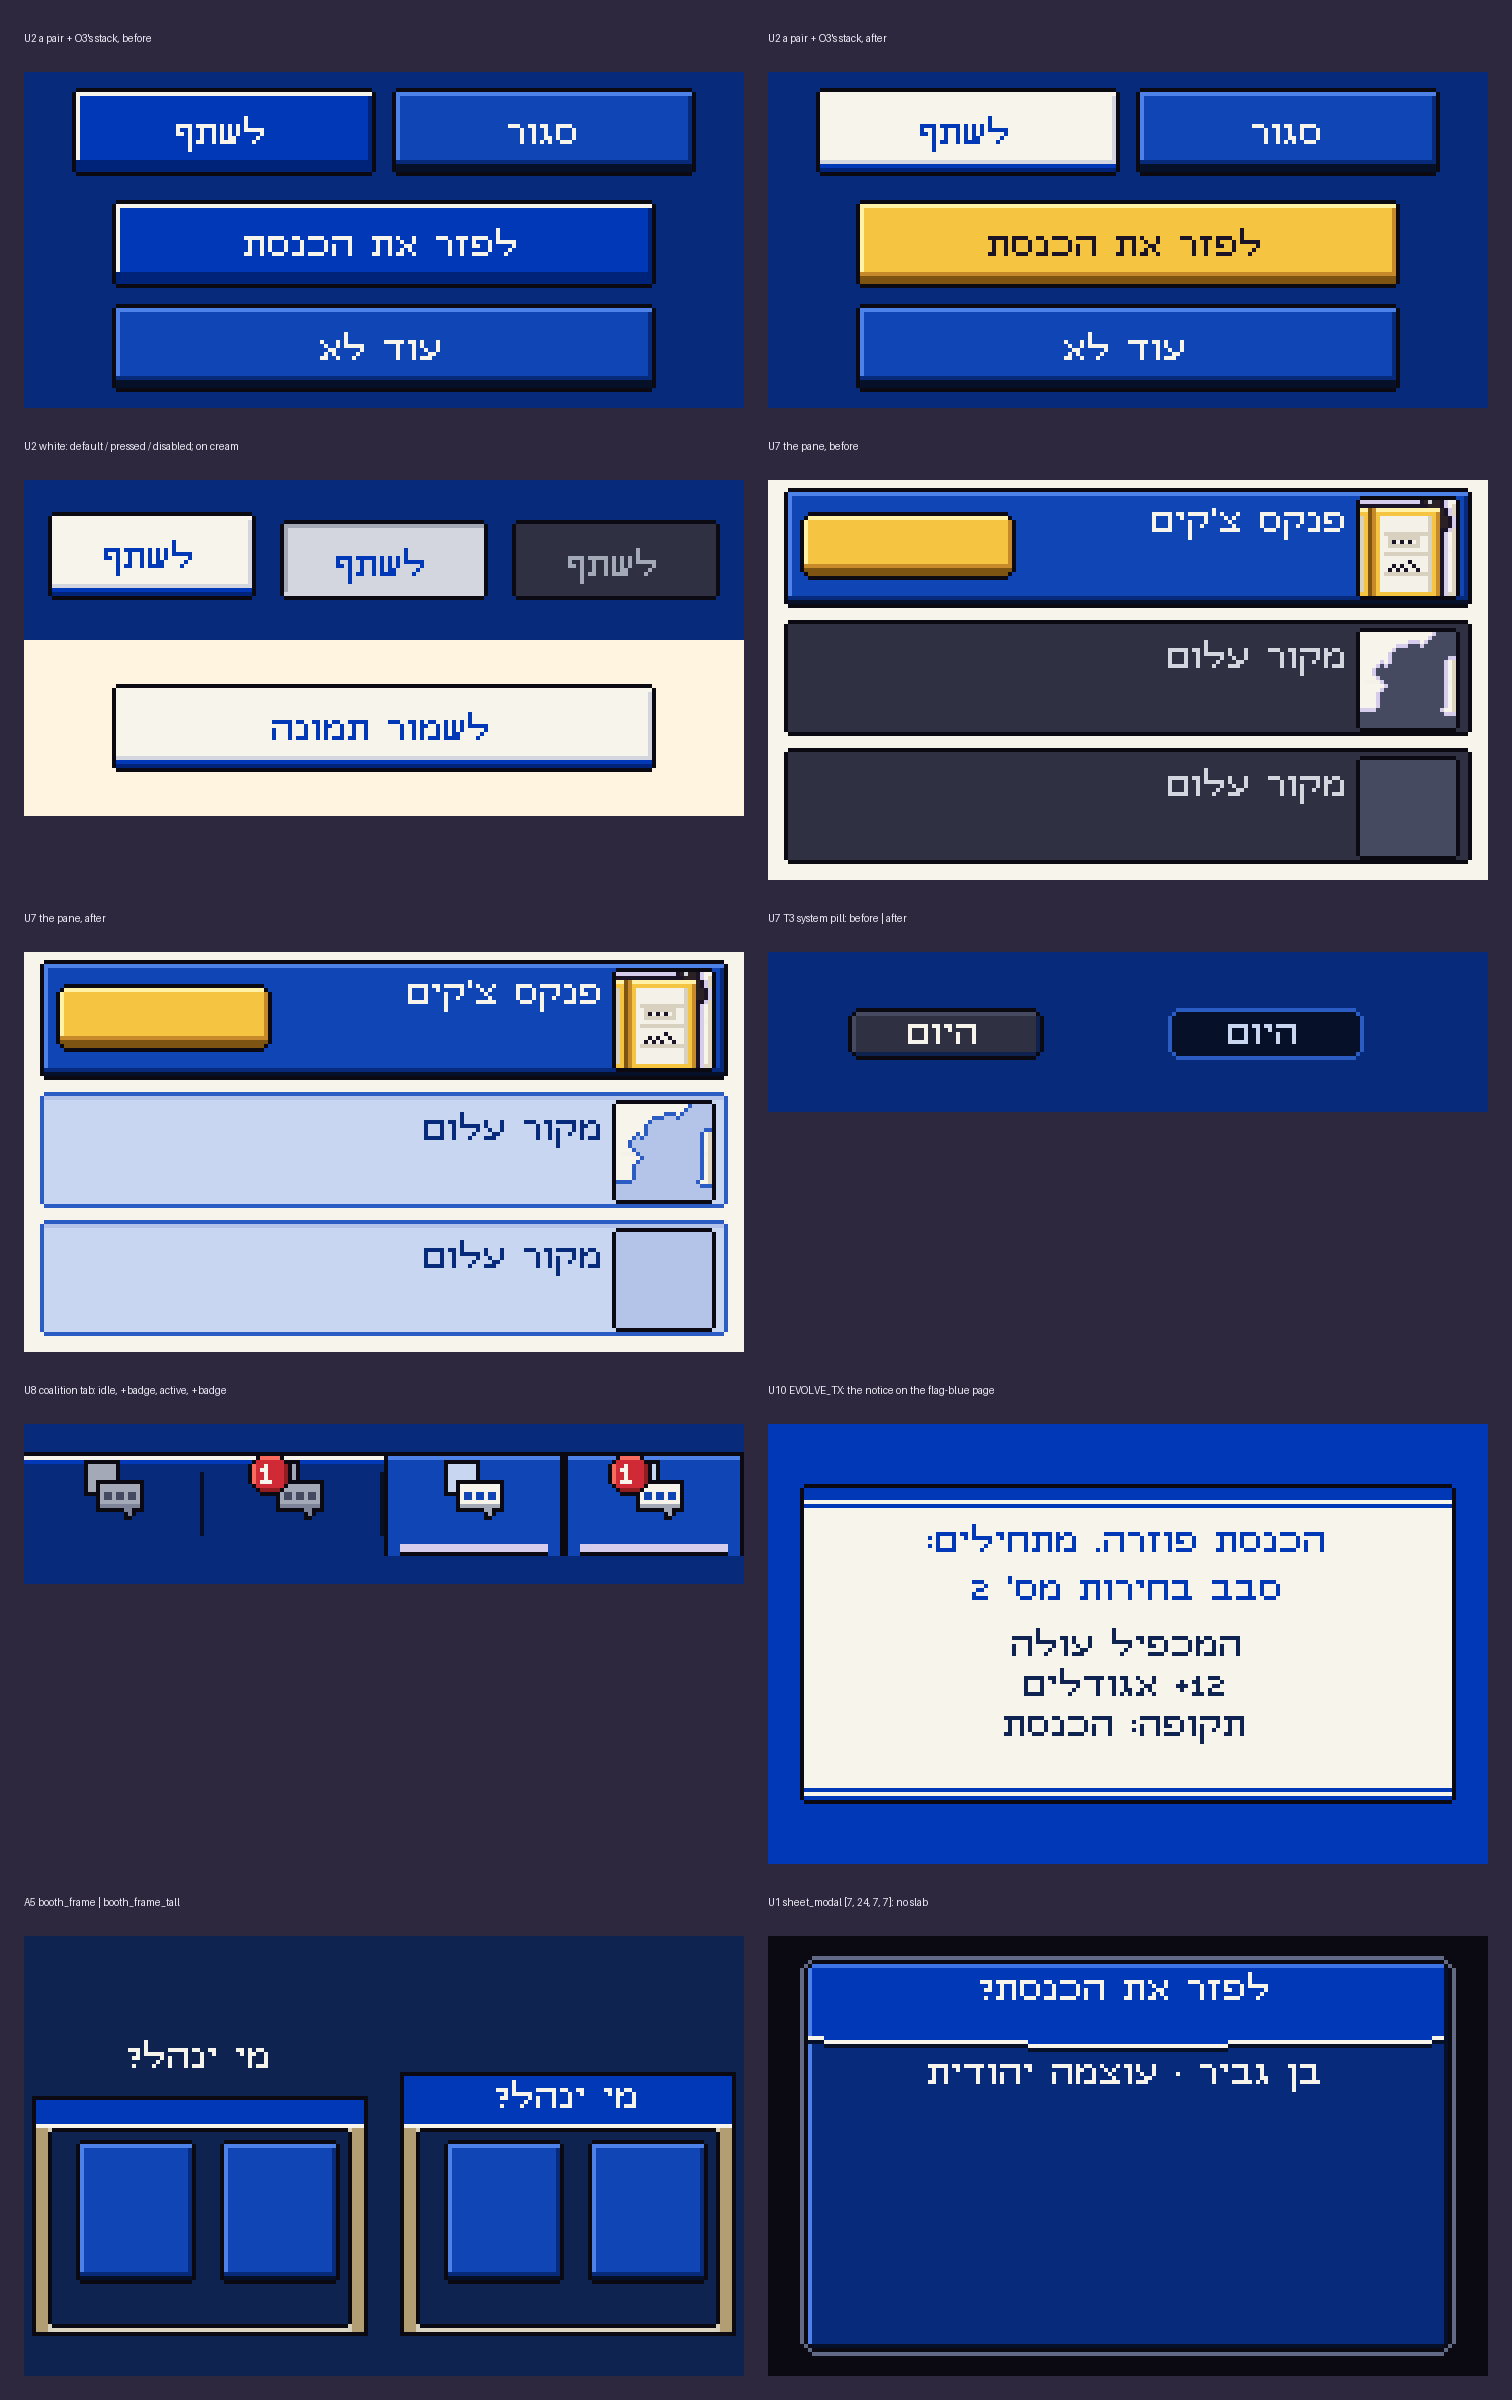
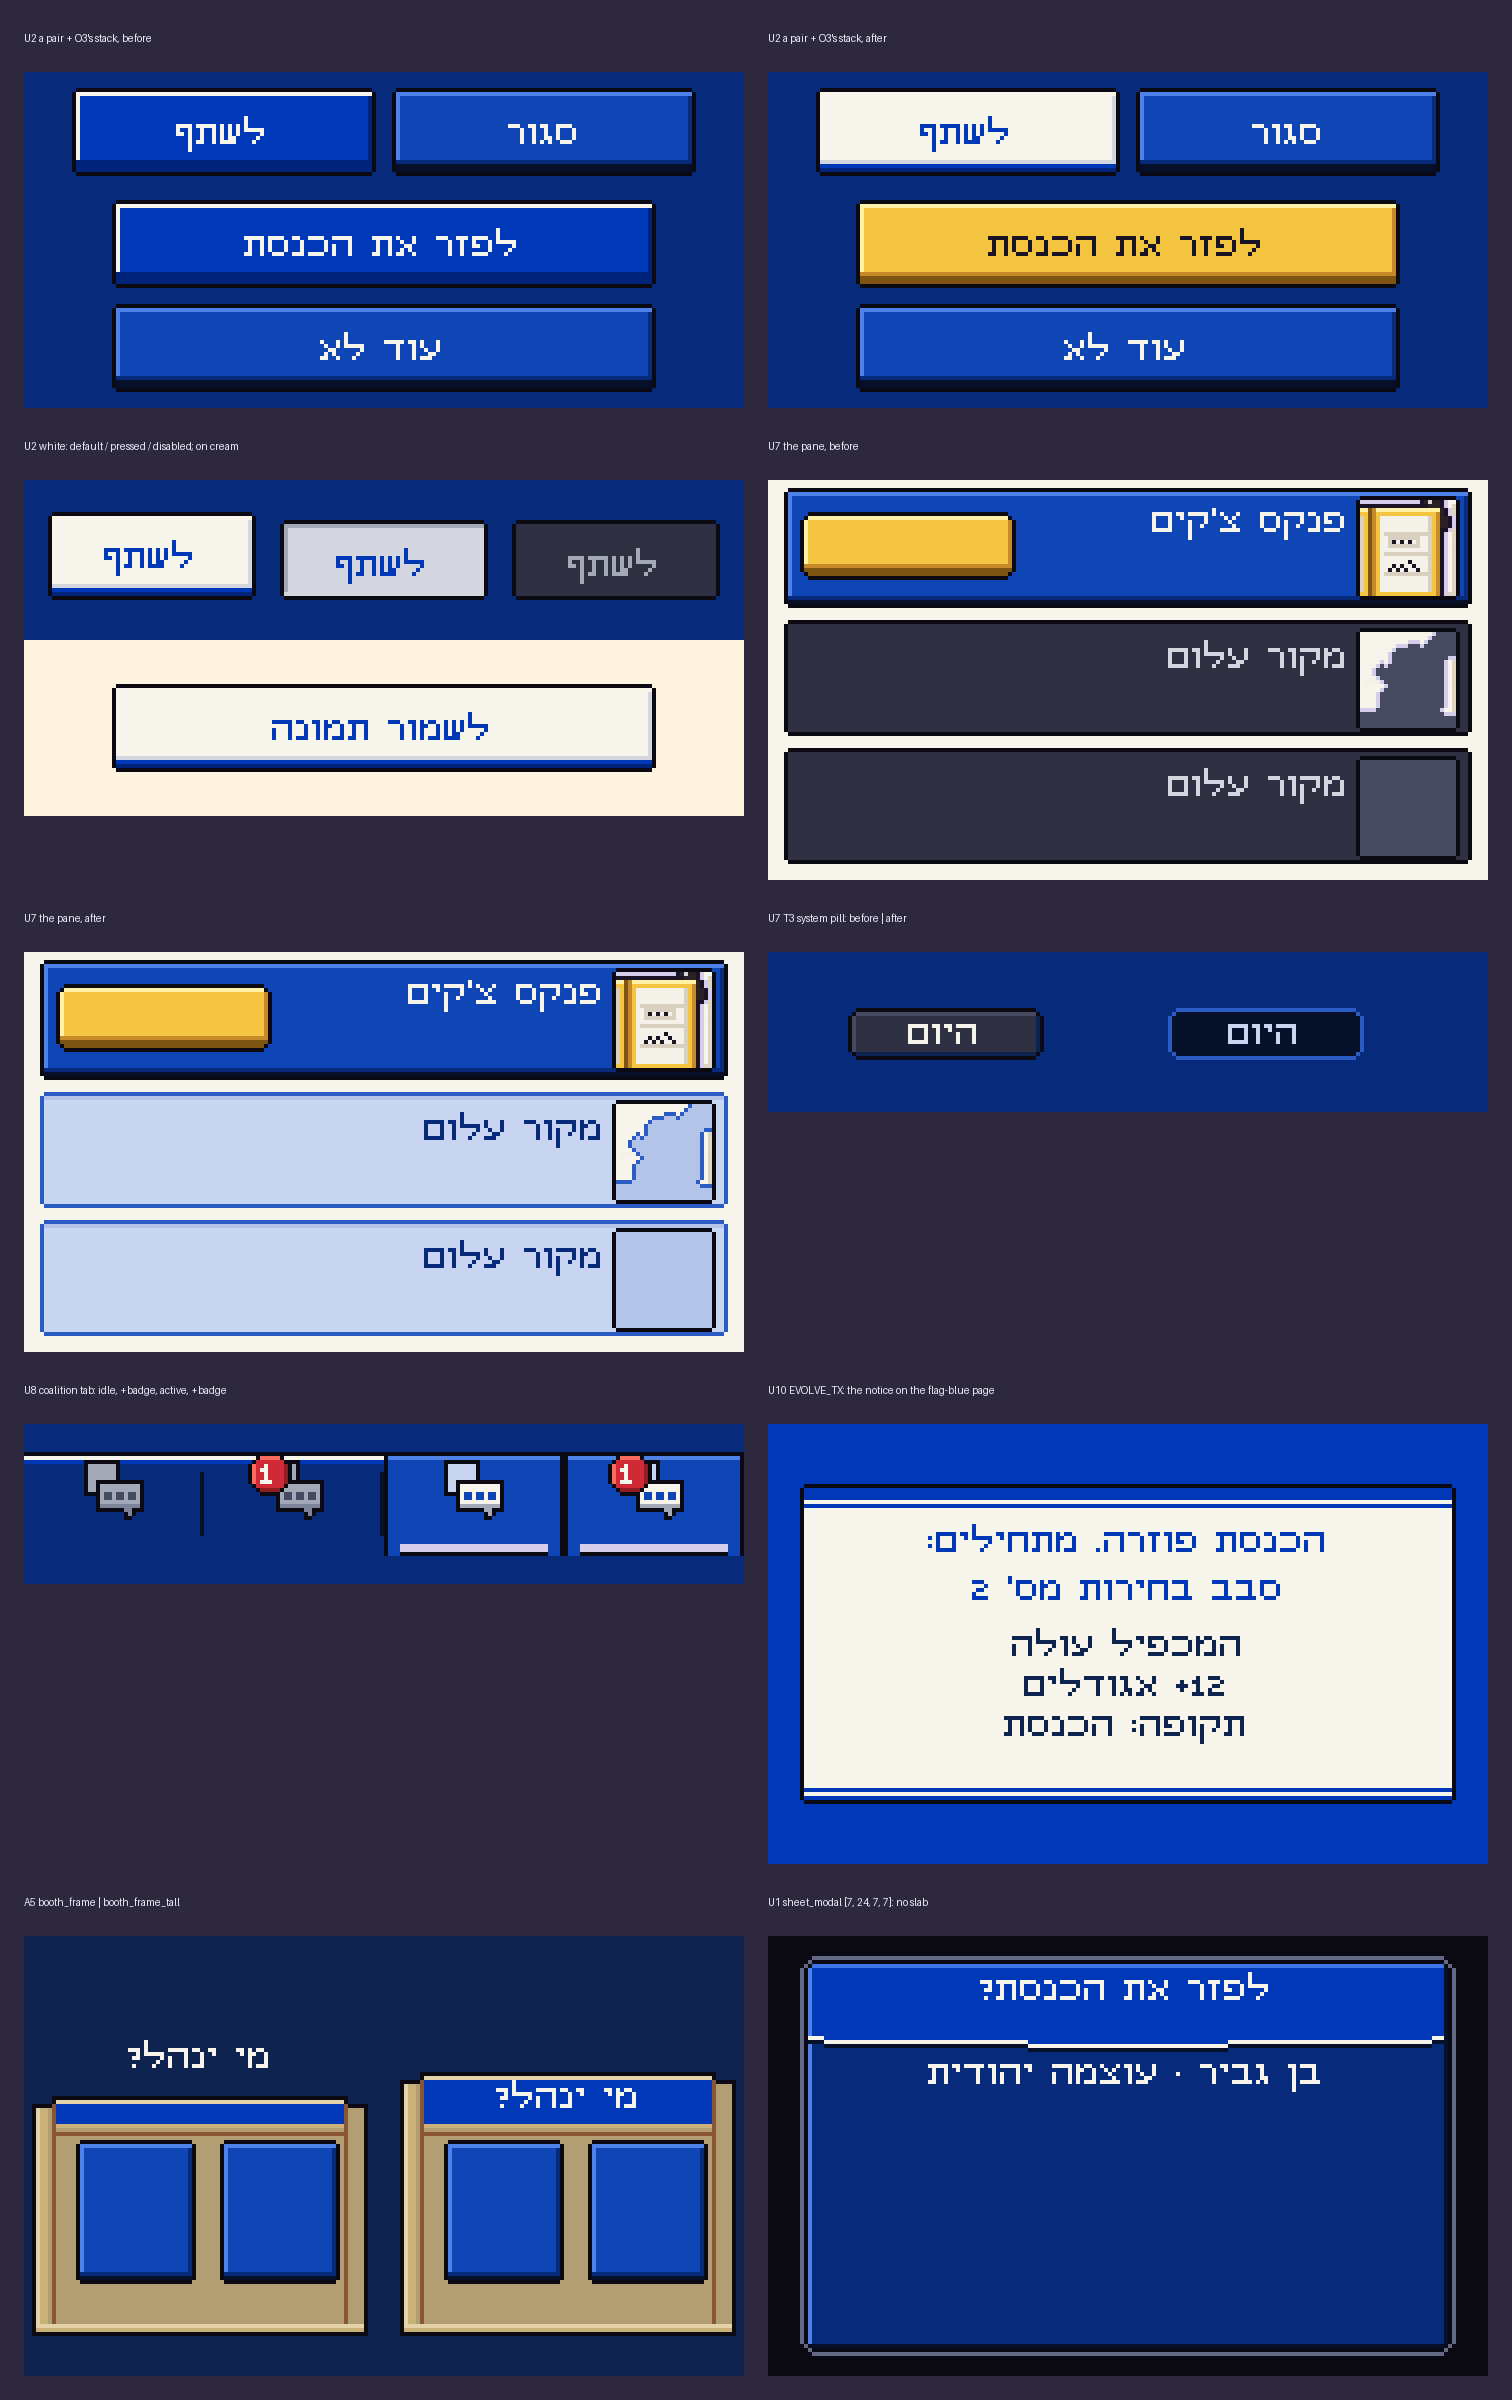
feat(od-sevev): draw the picker booth as a kraft cardboard folding screen
Manual test B13: booth_frame read as a thin brown line. At x4 its off-white
wings were 12-16 logical px and the transparent opening let the dimmed stage
show between the tiles.

Same size, 9-slice [6, 10, 6, 4] and content box (the view's BOOTH_TOP / SIDE /
BOTTOM insets are unchanged). It is now drawn as a tabletop folding screen in
kraft cardboard: the back panel carries a blank flag-blue printed band, the two
unprinted side wings stand 2 rows lower (the left one lit, the right one in
shade, a crease at each fold), the back panel's face is opaque behind the grid
(so the tile gaps show cardboard), and there is a shelf. The tile outline is
7.5:1 on it. booth_frame_tall shares the drawing (wave8.booth_art). Blank: no
text, emblem, ballot letters, party colour or flag stripes.

Claude-Session: https://claude.ai/code/session_01UJWVH11egMQ4r4GfyoMb4p

Changed region(s): [[0.0, 0.8438, 0.4974, 0.9688]]

diff --git a/art/od-sevev/src/wave8.py b/art/od-sevev/src/wave8.py
@@ -77,26 +77,57 @@ def hemicycle():
          "seats[0:n] of this image over the track.", extra={"seats": rects, "goal": 61})
 
 
-def booth():
-    """The cardboard voting booth (קלפי): a folding screen, the side wings angled back, a header strip. 9-slice."""
-    W, H = 40, 40
+BOOTH = {"light": "stone", "face": "blonde_sh", "shade": "stone_sh", "crease": "wood", "band": "flag"}
+
+
+def booth_art(W, H, band, top):
+    """The cardboard voting booth (קלפי) as a 9-slice, read as a tabletop folding screen: a back panel with a blank
+    flag-blue printed band across its top, two side wings folded toward the viewer (2 rows lower than the back panel,
+    unprinted; the left one in the key light, the right one in shade, a crease where each folds), the back panel's
+    face IN shadow behind the grid, and the shelf at the bottom. Kraft cardboard (2026-09-30, manual test B13: the
+    v4 off-white frame with a transparent opening read as a thin brown line at x4: the gaps between the tiles showed
+    the stage). band = the printed band's rows (a range), top = the back panel's first row. Every stretched row and
+    column is flat, so the 9-slice never smears."""
+    c = BOOTH
     L = Layer(W, H)
-    L.rect(0, 0, W, H, "paper")                               # cardboard, off-white
-    L.rect(0, 0, W, 7, "flag")                                # the header strip (a blank flag-blue band, no text)
-    L.hline(0, W - 1, 7, "white")
-    for y in range(8, H):                                     # the two side wings, folded back (a shade band)
-        L.hline(0, 3, y, "stone_sh"); L.hline(W - 4, W - 1, y, "stone_sh")
-        L.set(4, y, "receipt_sh"); L.set(W - 5, y, "receipt_sh")
-    for y in range(9, H - 3):                                 # the opening: transparent (the grid shows through)
-        for x in range(5, W - 5):
+    L.rect(0, 0, W, H, c["face"])
+    L.hline(5, W - 6, 1, c["light"])                         # the back panel's top edge, catching the light
+    for y in band:
+        L.hline(5, W - 6, y, c["band"])                      # the printed band (blank: no text, no emblem)
+    L.hline(5, W - 6, top - 1, c["shade"])                   # the band's shadow on the panel
+    L.rect(5, top, W - 10, H - top - 3, c["shade"])          # the back panel's face, in the wings' shadow
+    L.hline(5, W - 6, top, c["crease"])                      # ... darkest right under the header
+    L.vline(5, 2, H - 4, c["crease"])                        # the left fold (the lit wing meets the panel)
+    L.vline(W - 6, 2, H - 4, c["crease"])                    # the right fold
+    for y in range(3, H - 3):                                # the wings: left lit, right in shade
+        L.set(1, y, c["light"])
+        L.set(4, y, c["shade"])
+        L.hline(W - 5, W - 2, y, c["shade"])
+    L.hline(1, 4, 2, c["light"])                             # the wings' top edges
+    L.hline(W - 5, W - 2, 2, c["face"])
+    for y in range(0, 2):                                    # the wings stand 2 rows lower than the back panel
+        for x in list(range(0, 5)) + list(range(W - 5, W)):
             L.px[y][x] = None
-    L.hline(5, W - 6, H - 3, "receipt_sh")                    # the lip under the opening, a cardboard fold
-    outline_inplace(L)                                        # also rings the opening's inner edge
+    L.hline(1, W - 2, H - 3, c["light"])                     # the shelf: its lit edge and face
+    L.hline(1, W - 2, H - 2, c["face"])
+    outline_inplace(L)
+    return L
+
+
+def booth():
+    """The cardboard voting booth (קלפי) around the picker grid. 9-slice [6, 10, 6, 4], content [5, 9, 30, 28]."""
+    W, H = 40, 40
+    L = booth_art(W, H, range(2, 7), 9)
     save(L, "booth_frame", "picker", slice=[6, 10, 6, 4], mode="stretch", content=[5, 9, W - 10, H - 12],
-         notes="The picker frame as the cardboard voting booth (קלפי, v4): a 9-slice [6, 10, 6, 4] drawn around the tile "
-               "grid; the opening is transparent. Cardboard `paper` with the two side wings folded back, a blank "
-               "flag-blue header strip and a white rule (no text, no emblem, no letters: the booth, not the committee). "
-               "Optional: the engine may draw the picker title in its header (white on flag 8.5:1).")
+         notes="The picker frame as the cardboard voting booth (קלפי): a 9-slice [6, 10, 6, 4] drawn around the tile "
+               "grid, content [5, 9, 30, 28] (the tiles). Kraft cardboard (2026-09-30, manual test B13: the off-white "
+               "frame with a transparent opening read as a thin brown line), a tabletop folding screen: the back panel "
+               "with a lit top edge and a blank flag-blue printed band (rows 2-6, cols 5-34), the two side wings "
+               "folded forward, 2 rows lower and unprinted (left lit, right in shade, a crease at each fold), the back "
+               "panel in shadow INSIDE the frame (opaque: the gaps between the tiles are cardboard, so the grid stands "
+               "in the booth), the shelf at the bottom. Tiles on the back panel: their outline 7.5:1, their ui_bubble face "
+               "3.1:1. No text, no emblem, no letters, no party colour: the booth, not the committee.")
+    return L
 
 
 def envelope():

diff --git a/art/od-sevev/src/wave10.py b/art/od-sevev/src/wave10.py
@@ -115,24 +115,14 @@ def notice_frame(W=40, H=40):
 
 # ------------------------------------------------------------------ A5: the booth with a title header
 def booth_tall(W=40, HDR=12):
+    from wave8 import booth_art
     H = 40 + (HDR - 7) + 1                              # booth_frame is 40 tall with a 7-row header (row 0 = outline)
-    L = Layer(W, H)
-    L.rect(0, 0, W, H, "paper")                          # cardboard, off-white
-    L.rect(0, 0, W, HDR + 1, "flag")                     # rows 1..HDR: the header (row 0 becomes the outline)
-    L.hline(0, W - 1, HDR + 1, "white")
-    top = HDR + 3                                        # the opening's first row (booth_frame: 9)
-    for y in range(HDR + 2, H):                          # the side wings, folded back
-        L.hline(0, 3, y, "stone_sh"); L.hline(W - 4, W - 1, y, "stone_sh")
-        L.set(4, y, "receipt_sh"); L.set(W - 5, y, "receipt_sh")
-    for y in range(top, H - 3):
-        for x in range(5, W - 5):
-            L.px[y][x] = None
-    L.hline(5, W - 6, H - 3, "receipt_sh")
-    outline_inplace(L)
+    top = HDR + 3                                        # the back panel's first row (booth_frame: 9)
+    L = booth_art(W, H, range(2, HDR + 1), top)          # the printed band holds the title box (rows 2-10)
     save(L, "booth_frame_tall", "picker", slice=[6, top + 1, 6, 4], mode="stretch", content=[5, top, W - 10, H - top - 3],
          label="white",
          extra={"titleBox": [6, 2, W - 12, 9], "header": [1, 1, W - 2, HDR]},
-         notes="A5 (mobile-first §5.14.2, optional): booth_frame with a 12-row flag-blue header (rows 1-12), so the "
+         notes="A5 (mobile-first §5.14.2, optional): booth_frame with an 11-row flag-blue printed band (rows 2-12), so the "
                "picker title can sit in the booth: white on flag 8.46:1. `titleBox` [6, 2, w - 12, 9] is the text cell "
                "(the x4 Sevev 9 cell is 9 art rows; x5 large text is 45 logical, inside the 48 of the header). The "
                "opening, the wings and the bottom are booth_frame's exactly, 6 rows lower: 9-slice [6, 16, 6, 4], "
